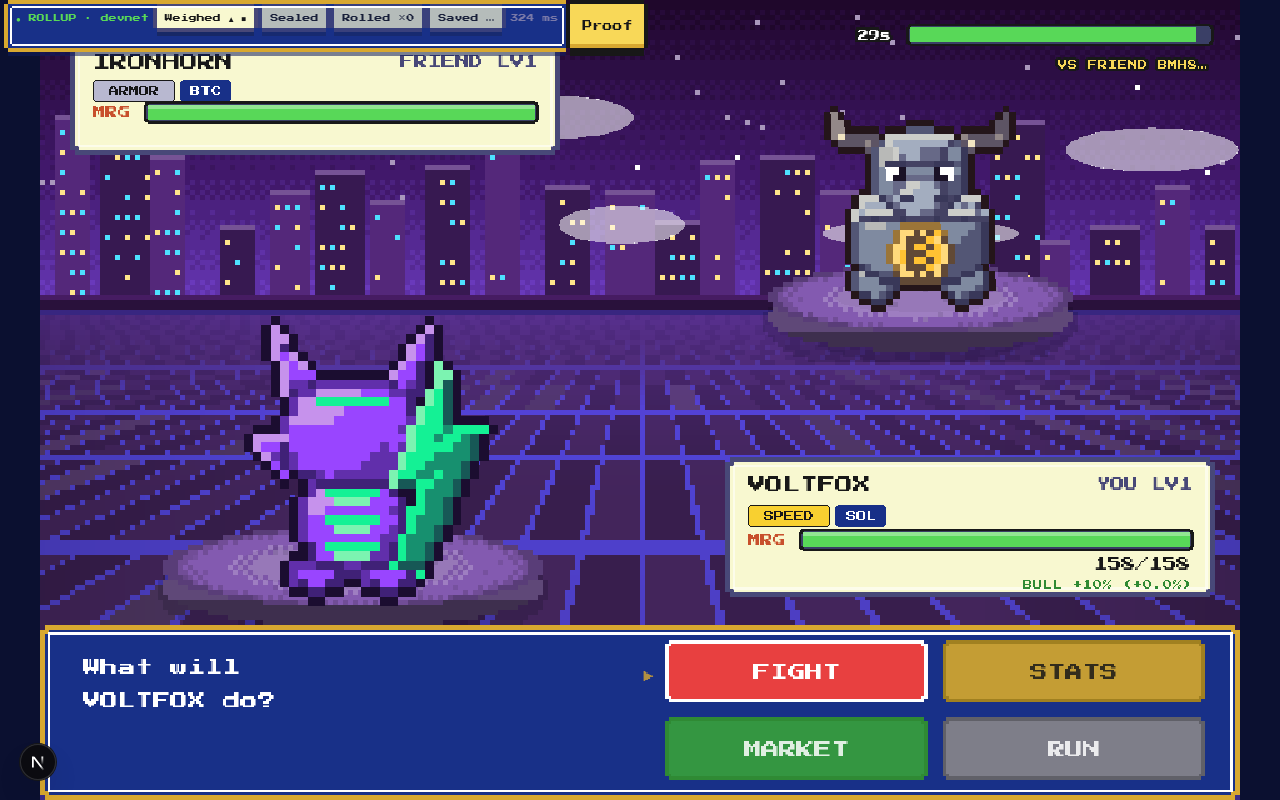
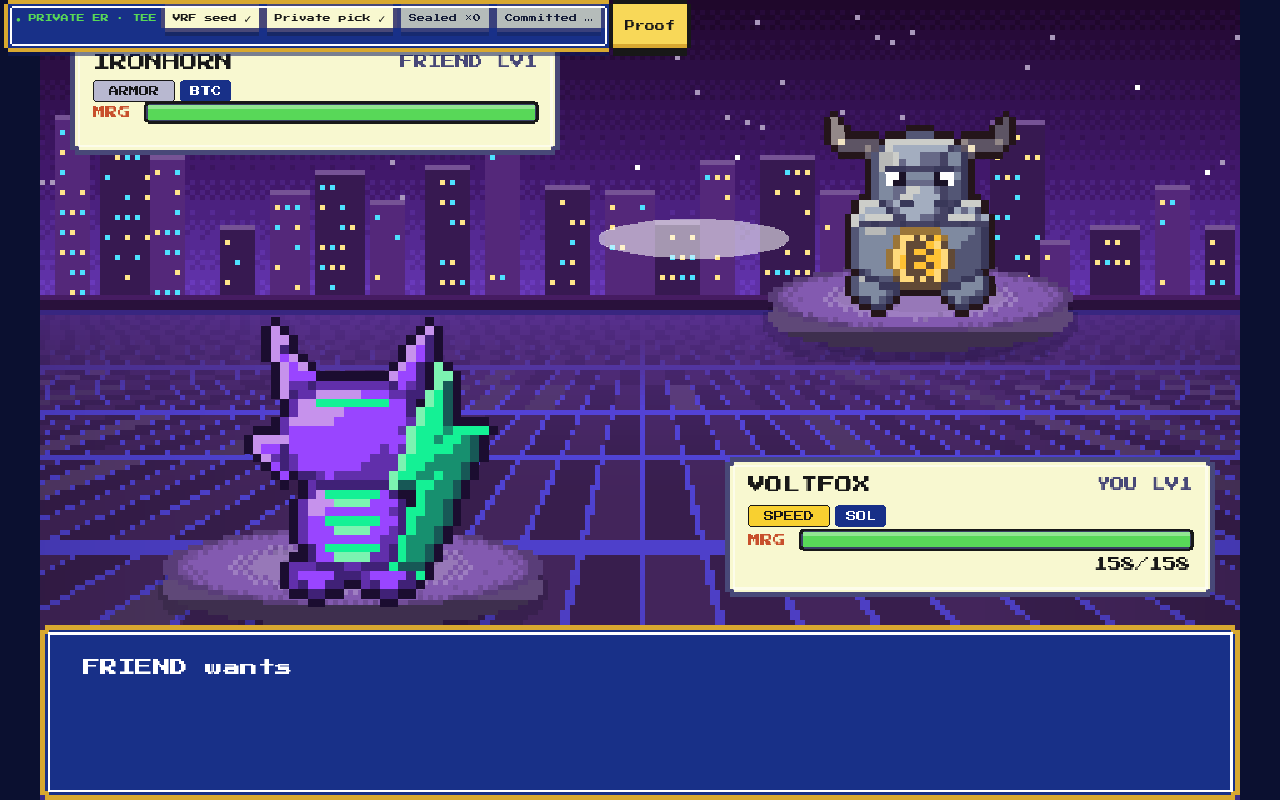
Docs: README, PROOFS, submission copy, demo script, progress; countdown + opponent-locked signal; retry logic for private duel setup

diff --git a/apps/web/lib/chain/sealed.ts b/apps/web/lib/chain/sealed.ts
@@ -2,6 +2,11 @@ import { Keypair, PublicKey } from '@solana/web3.js';
 import { SEALED, SealedClient, keypairSigner, requestDrip, type SealedDuelView, type TeeSession } from '@pokestonksss/sdk';
 import { FAUCET_URL, getClient } from './config';
 import { useSealedProof } from './sealedProof';
+import { friendly } from './store';
+
+async function withTimeout<T>(p: Promise<T>, ms: number): Promise<T> {
+  return Promise.race([p, new Promise<T>((_, rej) => setTimeout(() => rej(new Error('timeout')), ms))]);
+}
 
 const b64u = (u: Uint8Array) => btoa(String.fromCharCode(...u)).replace(/\+/g, '-').replace(/\//g, '_').replace(/=+$/, '');
 const unb64u = (s: string) => Uint8Array.from(atob(s.replace(/-/g, '+').replace(/_/g, '/')), (c) => c.charCodeAt(0));
@@ -85,13 +90,30 @@ export async function openSealed(kp: Keypair, players: [PublicKey, PublicKey], o
   const signer = keypairSigner(kp);
   const host = kp.publicKey;
   onStep('seed');
-  const rs = await sealed.requestSeed(signer, host);
-  P().step({ id: 'seed', label: 'request_seed (MagicBlock VRF, base layer)', link: rs.link, ms: rs.ms });
-  const seeded = await sealed.waitSeeded(host);
+  // devnet can drop a transaction or delay the VRF callback: retry both steps (each is safe to repeat)
+  let seeded: SealedDuelView | null = null;
+  for (let attempt = 0; attempt < 3 && !seeded; attempt++) {
+    const cur = await sealed.readDuel(host, 'base').catch(() => null);
+    if (cur && cur.status >= SEALED.SEEDED) { seeded = cur; break; }
+    try {
+      const rs = await sealed.requestSeed(signer, host);
+      P().step({ id: 'seed', label: 'request_seed (MagicBlock VRF, base layer)', link: rs.link, ms: rs.ms });
+    } catch { /* a repeated request may fail once the first callback landed: re-read below */ }
+    seeded = await sealed.waitSeeded(host, 25_000).catch(() => null);
+  }
+  if (!seeded) throw new Error('The MagicBlock VRF seed did not arrive. Please try again.');
   P().patch({ seed: seeded.seed });
   onStep('delegate');
-  const del = await sealed.delegateAll(signer, host, players);
-  P().step({ id: 'delegate', label: 'delegate duel + 2 picks to the TEE validator', link: del.link, ms: del.ms });
+  const dutyKey = sealed.duel(host);
+  for (let attempt = 0; attempt < 3; attempt++) {
+    const info = await getClient().base.getAccountInfo(dutyKey).catch(() => null);
+    if (info && !info.owner.equals(getClient().cfg.programId)) break; // already delegated
+    try {
+      const del = await withTimeout(sealed.delegateAll(signer, host, players), 35_000);
+      P().step({ id: 'delegate', label: 'delegate duel + 2 picks to the TEE validator', link: del.link, ms: del.ms });
+      break;
+    } catch (e) { if (attempt === 2) throw new Error(`Could not move the duel into the private rollup: ${friendly(e)}`); }
+  }
   onStep('tee');
   const tee = await sealed.connect(kp);
   P().step({ id: 'auth', label: 'TEE login: challenge signed by the match key', note: 'JWT token, no wallet involved' });

diff --git a/apps/web/app/game/scenes/BattleScene.ts b/apps/web/app/game/scenes/BattleScene.ts
@@ -268,9 +268,14 @@ export class BattleScene extends Phaser.Scene {
     // 2) The match ended without a final turn (forfeit).
     if (snap.phase === 'FINISHED') { void this.finish(); return; }
 
-    // 3) Opponent indicator while we choose.
-    if (this.mode === 'command' || this.mode === 'moves') this.foeStatus.setText(`VS ${snap.opponent.label.toUpperCase()}`).setColor('#f8d858');
-    else this.foeStatus.setText('');
+    // 3) Opponent indicator: who we face, whether they already sealed their pick (pressure), or that we are the one waited on.
+    const human = !snap.opponent.isBot;
+    if (this.mode === 'command' || this.mode === 'moves') {
+      if (human && snap.oppLocked) this.foeStatus.setText('OPPONENT LOCKED IN').setColor('#f85858');
+      else this.foeStatus.setText(`VS ${snap.opponent.label.toUpperCase()}`).setColor('#f8d858');
+    } else if (human && snap.phase === 'RESOLVING' && snap.locked && this.mode !== 'playing') {
+      this.foeStatus.setText(snap.oppLocked ? 'BOTH LOCKED. RESOLVING...' : 'LOCKED. WAITING FOR OPPONENT...').setColor(snap.oppLocked ? '#58d858' : '#f8d858');
+    } else this.foeStatus.setText('');
 
     // 4) Open our command window.
     if (this.mode === 'idle' && snap.phase === 'PICKING' && !snap.locked) this.openCommand(snap);
@@ -406,9 +411,11 @@ export class BattleScene extends Phaser.Scene {
     const g = this.timerG;
     g.clear();
     if (this.mode !== 'command' && this.mode !== 'moves') { this.timerLabel.setVisible(false); return; }
-    const remainMs = Math.max(0, this.deadline - this.time.now);
+    const sn = this.src.getSnapshot();
+    // duels share the chain's own deadline so both players see the same clock
+    const remainMs = Math.max(0, sn.deadlineMs ? sn.deadlineMs - Date.now() : this.deadline - this.time.now);
     const secs = remainMs / 1000;
-    const total = Math.max(1, this.src.getSnapshot().turnMs / 1000);
+    const total = Math.max(1, sn.turnMs / 1000);
     const w = 240, x = 696, y = 22;
     const col = secs > 15 ? 0x58d858 : secs > 5 ? 0xf8d858 : 0xf85858;
     const pulse = secs < 3 ? 0.55 + 0.45 * Math.abs(Math.sin(this.time.now / 110)) : 1;

diff --git a/apps/web/lib/chain/ChainDuelSource.ts b/apps/web/lib/chain/ChainDuelSource.ts
@@ -141,6 +141,8 @@ export class ChainDuelSource implements BattleSource {
       turns,
       phase: finished ? 'FINISHED' : locked ? 'RESOLVING' : 'PICKING',
       locked,
+      oppLocked: ((a.phase === PHASE.REVEALING ? a.revealedMask || a.committedMask : a.committedMask) & (1 << (1 - my))) !== 0 || a.phase === PHASE.REVEALING,
+      deadlineMs: a.deadline > 0 && (a.phase === PHASE.PICKING || a.phase === PHASE.REVEALING) ? a.deadline * 1000 : undefined,
     });
     this.refreshMood();
     if (a.phase === PHASE.REVEALING) void this.autoReveal(a);

diff --git a/README.md b/README.md
@@ -1,52 +1,64 @@
 # PokeStonksss
 
-**Pokémon-Go-style battles where the rollup is the game server.** Pick a BrokerMon (one per crypto asset), walk a pixel route, and battle — every move runs on a **MagicBlock Ephemeral Rollup**, every dice roll is a **MagicBlock VRF** result you can verify, live **MagicBlock oracle** prices change the damage, and your rating is saved to Solana **with no claim button**. No game server, no database, no cold start.
+**A crypto creature battler where the rollup is the game server.** Pick a BrokerMon (one per crypto asset), walk a pixel route and battle. Every move is a transaction on a **MagicBlock Ephemeral Rollup**, every dice roll is a **MagicBlock VRF** result you can verify, live **MagicBlock oracle** prices change the damage, a wallet-approved **session key** signs your moves so nothing pops up mid fight, a **crank** settles abandoned duels, and 1v1 duels can run inside a **Private Ephemeral Rollup (TEE)** where your pick is unreadable to everyone, including your opponent. Winning levels up and evolves your BrokerMon and mints badge tokens to your wallet. No game server, no database, no cold start.
 
-> **Live demo: https://pokestonksss.vercel.app** · judge page: https://pokestonksss.vercel.app/judge
+> **Live: https://pokestonksss.vercel.app** · judge page: https://pokestonksss.vercel.app/judge · **judge demo (win in a few turns): https://pokestonksss.vercel.app/?demo=1**
 >
-> Built for MagicBlock **Solana Blitz V9** (and Colosseum Crypto World's Fair). Devnet only, no real money.
+> Built for MagicBlock **Solana Blitz V9** and Colosseum Crypto World's Fair. Devnet only, no real money.
 
 ## Verify it yourself in 60 seconds
-1. Open the live app → **/judge** → press **Run self-test**. It plays a real battle on devnet from your browser (no wallet needed) and lists every transaction.
-2. Open any link in the list: *delegation*, *start_practice on the ER*, each *lock_pick* (VRF request → callback), *commit to Solana*.
-3. Open **/verify/<your arena>** to replay the match from on-chain data with the same Rust rules engine.
-4. Read the program: [`programs/pokestonksss`](programs/pokestonksss) — program id in the table below.
+1. Open **/?demo=1**, play as a guest (or connect a wallet), walk into tall grass. You face a Dummy House Agent that never attacks, so any attack wins. Open **Proof** in the battle and follow every link: delegation, rollup moves, VRF rolls, oracle weigh in, commit to Solana, session key, badge mint.
+2. Open **/judge** and press **Run self-test**: it plays a real battle from your browser and lists every transaction.
+3. **Private ER:** press **Duel a friend** (Private duel is the default), open the invite link in a second browser, and play. In **Proof** press **Peek at my opponent**: reading their sealed pick returns nothing, with your own login and with none.
+4. Open **/verify/<arena>** or **/verify/sealed/<match key>** to replay any match from on-chain data with the same Rust rules.
+5. Read the program: [`programs/pokestonksss`](programs/pokestonksss).
 
 ## How MagicBlock is used (nothing decorative)
 | Primitive | Job in the game | Where |
 |---|---|---|
-| **Ephemeral Rollup** | Trainer + Arena accounts are delegated at onboarding; every battle tx runs on the ER (no wallet popups, no server) | `delegate_all`, all ER instructions |
-| **VRF** | One roll per turn, requested **only after both picks are locked** (no peeking, no simulation tricks); callback resolves the turn | `lock_pick` / `reveal_pick` → `callback_turn` |
-| **Real-time oracle** | Price move since the bell → ±10% damage "market mood" (best-effort, flat if stale) | `oracle.rs` |
-| **Commit to Solana** | Rating/dex are committed from the ER ("Saved ✓"), batched under the 10-commit cap | `commit_trainer`, `save_and_leave` |
-| **Sealed picks** | Duels use commit-reveal (sha256) so neither side sees the other's move early | `commit_pick` / `reveal_pick` |
+| **Ephemeral Rollup** | Trainer + Arena accounts are delegated at onboarding; every battle transaction runs on the rollup (about 250 ms, no server) | `delegate_all`, all rollup instructions |
+| **Private Ephemeral Rollup (TEE)** | Sealed 1v1 duels: each pick lives in an account whose permission lists only its owner's one-time match key; the opponent, spectators and anonymous readers get nothing back | `sealed.rs`: `s_open`, `s_lock`, `s_resolve`, `s_finish` |
+| **VRF** | One roll per turn, requested only after both picks are locked (practice and rollup duels). Private duels use a base-layer VRF seed mixed with both sealed nonces | `lock_pick` / `reveal_pick` → `callback_turn`, `s_request_seed` → `s_consume_seed` |
+| **Real-time oracle** | Price move since the bell changes damage by ±10% (best effort, flat if stale) | `oracle.rs` |
+| **Session keys** | One wallet approval creates the Trainer, delegates it and registers a session key; the key signs every move, so no popups in a fight | `session_auth_or` on every player instruction |
+| **Crank** | A task scheduled with `ScheduleTask` settles a duel a player walked away from, with nobody calling anything | `arm_timer`, `crank_timeout` |
+| **Commit to Solana** | Rating, XP and dex are committed from the rollup and drive badge mints; private duels commit and undelegate at the end | `commit_trainer`, `s_finish` |
+
+## Rewards
+Wins add XP to the BrokerMon you fought with. Levels give +4% stats and BrokerMons **evolve at Lv 4 and Lv 7** (new names, bigger sprites, glow). Eight **badge tokens** (real SPL tokens) are minted to your wallet from your committed Trainer, with no claim button: First Blood, Regular, Collector, Dolphin, Shark, Evolved, Apex, Hot Streak. Guests receive them on their guest key and can connect a wallet later.
 
 ## Architecture
 ```
-Browser (Next.js 16 + Phaser)  ──base tx──►  Solana devnet (program, delegation)
+Browser (Next.js 16 + Phaser)  ──base tx──►  Solana devnet (program, delegation, VRF seed, badge mints)
         │                                         │ delegate / commit
-        └────ER tx + websocket────►  MagicBlock ER (Asia) ── VRF oracle · price oracle
+        ├────ER tx + websocket────►  MagicBlock ER (Asia) ── VRF oracle · price oracle · crank
+        └────TEE tx (auth token)──►  MagicBlock Private ER (Intel TDX) ── permissions · sealed picks
 ```
-- `programs/pokestonksss` — Anchor program (Rust). `crates/duel-rules` — deterministic integer rules shared by the program, the browser (WASM) and tests.
-- `packages/sdk` — typed TS client. `apps/web` — the game (ported engine + new UI). `scripts/` — devnet e2e, load test, deploy.
-- Full docs: [`docs/SYSTEM-ARCHITECTURE.md`](docs/SYSTEM-ARCHITECTURE.md), [`docs/BUILD-PLAN.md`](docs/BUILD-PLAN.md), [`docs/OVERVIEW.md`](docs/OVERVIEW.md), [`docs/RULES.md`](docs/RULES.md).
+- `programs/pokestonksss` Anchor program (Rust), one program for every mode. `crates/duel-rules` deterministic integer rules shared by the program, the browser (WASM) and the tests.
+- `packages/sdk` typed TS client (`GameClient`, `SealedClient`). `apps/web` the game and proof pages. `scripts/` devnet end to end tests, load test, deploy.
+- Evidence of every claim: [`docs/PROOFS.md`](docs/PROOFS.md). Design docs: [`docs/SYSTEM-ARCHITECTURE.md`](docs/SYSTEM-ARCHITECTURE.md), [`docs/RULES.md`](docs/RULES.md).
 
 ## Program / feeds (devnet)
 | | |
 |---|---|
 | Program | `FRxAb7Nw1GFyLkV7KN7fitTztiZuJ1y1oNEmcW3mHM1M` |
 | ER validator (Asia) | `MAS1Dt9qreoRMQ14YQuhg8UTZMMzDdKhmkZMECCzk57` |
+| Private ER (TEE) validator | `MTEWGuqxUpYZGFJQcp8tLN7x5v9BSeoFHYWQQ3n3xzo` (`https://devnet-tee.magicblock.app`) |
+| Permission program | `ACLseoPoyC3cBqoUtkbjZ4aDrkurZW86v19pXz2XQnp1` |
+| Session keys program | `KeyspM2ssCJbqUhQ4k7sveSiY4WjnYsrXkC8oDbwde5` |
 | Delegation program | `DELeGGvXpWV2fqJUhqcF5ZSYMS4JTLjteaAMARRSaeSh` |
 | Oracle program | `PriCems5tHihc6UDXDjzjeawomAwBduWMGAi8ZUjppd` |
 
 ## Run locally
 ```bash
 pnpm install
-cargo test -p duel-rules --release && cargo test -p pokestonksss --lib
-pnpm --filter web dev            # game on http://localhost:3000
-pnpm --filter scripts e2e:practice   # devnet end-to-end
+cargo test --workspace --release
+pnpm --filter web dev                 # game on http://localhost:3000
+pnpm --filter scripts e2e:practice    # devnet: practice battle on the rollup
+pnpm --filter scripts e2e:v2          # devnet: session keys, levels, badge tokens, crank
+pnpm --filter scripts e2e:sealed      # devnet: Private ER sealed duel end to end
 ```
 Deploy (you run it; keys never go through tooling): `scripts/deploy-devnet.sh pokestonksss`.
 
 ## Prior work disclosure
-The game engine and UI foundations (Phaser world, procedural art/audio engine, battle widgets) are reused from our earlier Monad hackathon prototype **PokeStonks**. Everything on Solana/MagicBlock — the on-chain program, rules engine, oracle/VRF integration, SDK, onboarding, duels, proof pages, creatures and UX — was built for this hackathon.
+The game engine and UI foundations (Phaser world, procedural art and audio engine, battle widgets) are reused from our earlier Monad hackathon prototype **PokeStonks**. Everything on Solana and MagicBlock (the on-chain program, rules engine, rollup, VRF, oracle, session key, crank and Private ER integration, SDK, onboarding, duels, rewards, proof pages, creatures and UX) was built for this hackathon.

diff --git a/docs/SUBMISSION.md b/docs/SUBMISSION.md
@@ -1,14 +1,21 @@
 # Submission copy (ready to paste)
 
 **Project name:** PokeStonksss
-**One-liner:** Pokémon-Go-style battles where MagicBlock's rollup is the game server: instant, provably fair, no claim button.
-**Live:** https://pokestonksss.vercel.app · Judge self-test: https://pokestonksss.vercel.app/judge · Repo: https://github.com/Abhishek222983101/pokestonksss
-**Program (devnet):** FRxAb7Nw1GFyLkV7KN7fitTztiZuJ1y1oNEmcW3mHM1M · **Categories:** Games, Consumer · **Integration proof:** open /judge and follow any "link ↗" (explorer URLs for delegation, rollup transactions, VRF-resolved turns, commit).
+**One-liner:** A crypto creature battler where MagicBlock's rollups are the game server: instant, provably fair, private when you want it, and winning pays in badge tokens.
+**Live:** https://pokestonksss.vercel.app · Judge demo: https://pokestonksss.vercel.app/?demo=1 · Self-test: https://pokestonksss.vercel.app/judge · Repo: https://github.com/Abhishek222983101/pokestonksss
+**Program (devnet):** FRxAb7Nw1GFyLkV7KN7fitTztiZuJ1y1oNEmcW3mHM1M · **Categories:** Games, Privacy, Consumer · **Evidence:** docs/PROOFS.md
 
-**Description (MagicBlock Blitz):** PokeStonksss rebuilds our PokeStonks battler on Solana with MagicBlock as the backend. Each player's Trainer and Arena accounts are delegated to an Ephemeral Rollup at onboarding (≈2 s, one transaction, guests need no wallet and not even SOL afterwards). Every move runs on the rollup (≈250 ms confirm), every turn is resolved by a MagicBlock VRF roll requested only after both picks are locked (≈75 ms callback), live MagicBlock oracle prices add ±10% "market mood", duels use sealed commit-reveal picks, and ratings are committed back to Solana — no claim step. A Judge page plays a real battle from the browser and lists every transaction; a Verify page replays any match from on-chain data with the same Rust rules (compiled to WASM).
+**Description (MagicBlock Blitz):**
+PokeStonksss is a creature battler where every move is an onchain transaction on a MagicBlock Ephemeral Rollup, confirmed in about 250 ms. Connect your Solana wallet once and a session key signs your moves for you, so nothing pops up in the middle of a fight. No wallet yet? Start as a guest in one click.
 
-**Prior work disclosure (Colosseum):** game engine/UI foundations (Phaser world, procedural art/audio engine, battle widgets) reused from our earlier Monad prototype PokeStonks; the entire Solana/MagicBlock layer (program, rules engine, VRF/oracle/rollup integration, SDK, onboarding, duels, proof pages, creatures, UX) is new for this hackathon. Open source.
+Each turn your move is locked before MagicBlock VRF rolls the dice, so nobody can predict or rig the outcome. In 1v1 duels your pick is sealed inside a Private Ephemeral Rollup running in a TEE, so your opponent cannot peek until both picks are in. Live MagicBlock oracle prices swing the damage, so the market is part of the fight.
 
-**Measured on devnet (Asia ER):** onboarding+delegation 1.8–2.4 s; start_practice 262 ms; lock_pick p50 229–270 ms; VRF→resolved p50 73 ms; sealed duel turn ≈850 ms (4 txs + VRF); load test 10 concurrent guests × 2 battles = 0 errors; 8/8 attack tests rejected; replay of on-chain logs matches final state.
+Winning pays. Your creatures level up and evolve, wins mint badge tokens to your wallet, tier ups mint rarer ones, and your rating settles back to Solana with no claim step. If a player walks away, a MagicBlock crank closes the turn on its own.
 
-**GTM:** see docs/GTM.md.
+**What is verifiable (docs/PROOFS.md):** rollup latency, VRF per turn, oracle weigh in, one-approval session key, XP and evolution on chain, badge SPL tokens, a crank-settled duel, and a Private ER duel where reading the opponent's sealed pick returns null (tested with the opponent's own login, a stranger's login and no login). Every roll of a private duel recomputes from the public VRF seed and both sealed nonces.
+
+**Prior work disclosure (Colosseum):** game engine and UI foundations (Phaser world, procedural art and audio engine, battle widgets) reused from our earlier Monad prototype PokeStonks; the entire Solana and MagicBlock layer (program, rules engine, rollup, VRF, oracle, session key, crank and Private ER integration, SDK, onboarding, duels, rewards, proof pages, creatures, UX) is new for this hackathon. Open source.
+
+**Measured on devnet:** rollup move p50 about 220 ms, VRF to resolved about 70 ms, onboarding 2.4 s, one wallet signature for create + delegate + session key, private duel from invite to live about 7 s and about 1 s per sealed turn, 0 errors in a 10 guest load test, 8 attack tests rejected.
+
+**GTM:** see docs/GTM.md. Next: mainnet, a Solana Seeker build through the dApp Store, ranked seasons and prize pools paid straight to winners' wallets.

diff --git a/docs/PROOFS.md b/docs/PROOFS.md
@@ -1,0 +1,28 @@
+# PROOFS: how to verify each claim
+
+Everything below is on Solana devnet and the MagicBlock devnet rollups. Program: `FRxAb7Nw1GFyLkV7KN7fitTztiZuJ1y1oNEmcW3mHM1M`.
+
+| Claim | How to verify | Automated evidence |
+|---|---|---|
+| Moves run on an Ephemeral Rollup in about 250 ms with no popups | Open **Proof** in any battle: every `lock_pick` links to the rollup explorer; latency is measured in the strip | `scripts/e2e-practice.ts`: lock p50 about 220 ms, VRF to resolved about 70 ms |
+| Each roll is a MagicBlock VRF result requested after both picks lock | **Proof > VRF**: tx link plus the 10 random bytes of every turn; `/verify/<arena>` replays the match from them | replay equals chain state (`REPLAY_matches_chain`) |
+| Live oracle prices change damage | **Proof > ORACLE**: bell price, current price, mood | `oracle.rs`, live price feed accounts linked in the panel |
+| A wallet approves once, a session key signs everything | Connect a wallet, play, count wallet popups (one). **Proof > SESSION** shows the session signer and token account | `scripts/e2e-wallet.ts`: one `signTransaction` call for create + delegate + session key, zero during the battle |
+| Levels, XP and evolutions are computed on chain | **Rewards** panel; the same Rust rules run in the browser (WASM) and in the program | `docs/evidence/e2e-v2.txt` (xp 120 = Lv 4), 64 Rust tests, 15 WASM tests |
+| Wins mint badge tokens to your wallet | **Rewards** panel links each mint account and mint transaction; token appears in the wallet | `docs/evidence/e2e-v2.txt`, `scripts/e2e-wallet.ts` (First Blood balance 1) |
+| A crank settles abandoned duels | `arm_timer` receipt in **Proof > CRANK** | `docs/evidence/e2e-v2.txt`: duel settled by the validator's task scheduler 63 s later |
+| Private ER: nobody can read a sealed pick | Start a **Private duel**, open **Proof > PEEK PROOF**, press the button | `docs/evidence/e2e-sealed.txt`: host reads its own pick, host and guest cannot read each other's, an anonymous visitor and an authenticated stranger get null |
+| Private ER permissions are derived on chain | **Proof > PERMISSION** links the permission account on the TEE; members list only the owner's match key | `e2e-sealed.ts` reads both permission accounts |
+| Private duel rolls cannot be predicted or ground | `/verify/sealed/<match key>` recomputes every roll from the VRF seed and both sealed nonces | `e2e-sealed.ts`: every roll recomputes, the replay matches |
+| Private duel result is on Solana | Final duel account is owned by our program again with the full log | `e2e-sealed.ts` waits for undelegation and decodes it |
+| Attacks are rejected | 8 attacks on devnet (wrong seat, forged VRF callback, stranger session key, wrong token, spectator commit, early timeout, bad reveal...) | `scripts/e2e-security.ts`, `scripts/e2e-duel.ts` |
+
+## Re-run
+```bash
+pnpm --filter scripts e2e:practice && pnpm --filter scripts e2e:duel && pnpm --filter scripts e2e:security
+pnpm --filter scripts e2e:v2 && pnpm --filter scripts e2e:sealed
+BASE_URL=https://pokestonksss.vercel.app MODE=private pnpm --filter scripts e2e:duelbrowser   # two real browsers, Private ER
+```
+
+## Private duel timings (devnet, measured by `e2e-sealed.ts`)
+create 0.8 s, join 1.2 s, VRF seed 1 s, delegate to the TEE 1 s, TEE login 0.5 s, clone 0.3 s, open (permissions) 0.5 s: about 7 s from invite to a live private duel. About 1 s per sealed turn (two locks plus a resolve).

diff --git a/docs/PROGRESS.md b/docs/PROGRESS.md
@@ -18,3 +18,10 @@
 - [x] P10 DEPLOYED https://pokestonksss.vercel.app (Vercel project pokestonksss, faucet wallet 4k1hGCLa… funded 4 SOL). Production browser e2e: /judge self-test PASS (9 s, 0 page errors); full game flow (guest → onboarding → select → globe → route → walk into grass → ON-CHAIN battle) PASS.
 - [x] Two-browser sealed duel (host dialog + QR, guest invite link) PASS on devnet (4 turns, winner decided).
 - Program upgrade note: new binaries larger than the account need `solana program extend` (scripts/deploy-devnet.sh does it).
+
+# Season 2 (13 Oct 2026)
+- [x] Rules: creature levels (+4% stats per level, 10 levels), evolutions at Lv 4 and Lv 7, XP per species, bot levels per tier, Judge Dummy bot (always Leverage). 64 Rust tests, 15 WASM tests, fixtures regenerated with levels.
+- [x] Program v2 (same id): MagicBlock session keys on every player instruction, Trainer xp/avatar, badge SPL mints with `mint_badge` (permissionless, verified against the committed Trainer), crank (`arm_timer`, `crank_timeout`), forfeit with sessions. docs/evidence/e2e-v2.txt: 1 base tx = create + delegate + session key, unfunded session key plays, stranger session rejected, xp 120 = Lv 4, badges minted and double mint rejected, crank settles an idle duel after 63 s.
+- [x] Private ER: `sealed.rs` (create/join/VRF seed/delegate to TEE, permissions, sealed picks, resolve, timeout, finish). docs/evidence/e2e-sealed.txt: privacy proofs (owner reads, opponent/anonymous/stranger get null), every roll recomputes from seed + nonces, replay matches, final state on Solana.
+- [x] Web: wallet connect (Wallet Standard) with one approval, avatars (6, stored on chain), levels/evolution visuals, XP + level up + badge banners, Rewards panel, Proof panel rows (session, crank, badges, levels), Private duel mode (host dialog, /p invite page, SealedDuelSource, Peek proof, /verify/sealed). Browser e2e: e2e-wallet (mock Wallet Standard wallet), e2e-duelbrowser for both duel modes, e2e-game on production.
+- Known gaps: private duels have no oracle mood, rating or XP (they are a separate sealed mode); the rollup duel's crank is armed by the clients, private duel timeouts are client-triggered `s_timeout`; guest progress cannot be moved onto a wallet Trainer yet.

diff --git a/docs/DEMO-SCRIPT.md b/docs/DEMO-SCRIPT.md
@@ -1,10 +1,9 @@
-# 2–3 minute demo (record on the live site with a fresh browser profile)
-0:00 Open https://pokestonksss.vercel.app → "Play as guest" (say: no wallet, no server).
-0:12 Wristband screen: real transactions, ~2 s. Pick Voltfox (live oracle prices on cards).
-0:30 Globe → Validator Run (SOL route) → walk into tall grass → encounter.
-0:50 Battle: point at the Proof Strip (Weighed · Sealed · Rolled · Saved) and the ROLLUP badge; pick moves; each turn = rollup tx + VRF roll (~75 ms).
-1:20 Win/lose → rating changes, "Saved" link → open the explorer link (commit from the rollup).
-1:35 "Duel a friend": QR/link → second phone/browser joins in two taps; sealed picks; friend label.
-2:05 Open /judge → Run self-test → scroll the checklist, open a VRF turn link and the delegation link.
-2:30 Open /verify/<arena> → "Replay matches the on-chain state".
-2:45 Close: no server, no claim button, provably fair; reusable engine; next: wallet link, quick match, sponsored routes.
+# 2-3 minute demo (record on the live site with a fresh browser profile)
+0:00 Open https://pokestonksss.vercel.app/?demo=1. Say: no server, no cold start. Press Play, choose a trainer look, then "Connect wallet" (or guest). One approval, then no popups.
+0:25 Pick a BrokerMon. Globe, route, walk into tall grass. Encounter vs the Judge Dummy.
+0:45 Battle: point at the Proof Strip (Weighed, Sealed, Rolled, Saved) and the ROLLUP badge; Pump a few times. Each turn = a rollup transaction by the session key plus a MagicBlock VRF roll (about 70 ms).
+1:10 Win: XP bar, LEVEL UP, then the badge banner. Open Rewards: the badge is a real token in your wallet; click the mint link.
+1:30 Duel a friend (Private duel). Show the QR, join from a second browser. In Proof press "Peek at my opponent": denied. Say: Private ER, Intel TDX, permission derived on chain.
+2:00 Finish the duel. Open the committed result and /verify/sealed/<match key>: every roll recomputes from the VRF seed and both sealed nonces.
+2:20 Open /judge, run the self-test, open one VRF link and the delegation link.
+2:40 Close: one program, three layers (rollup, private rollup, base layer), wallet badges, evolutions. Next: mainnet and Solana Seeker.
